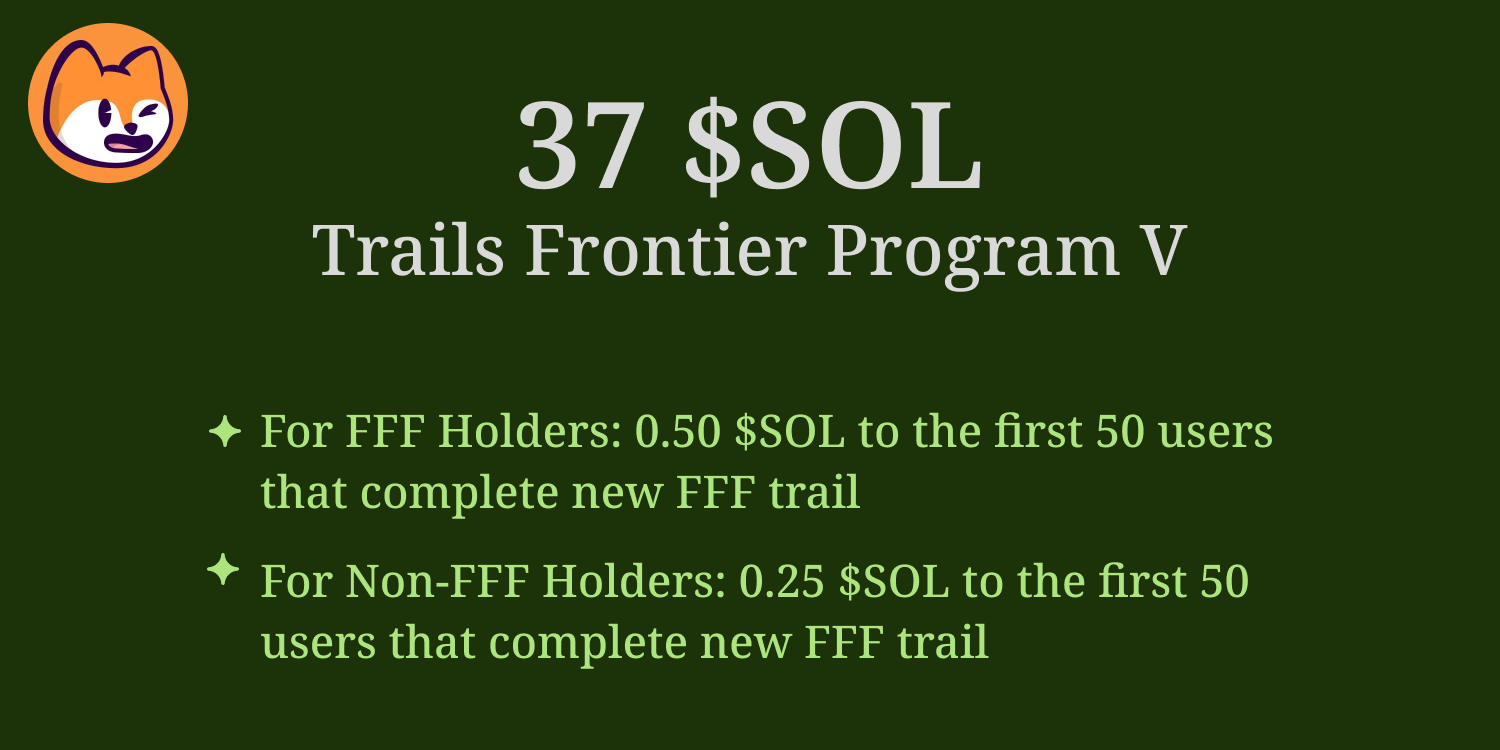
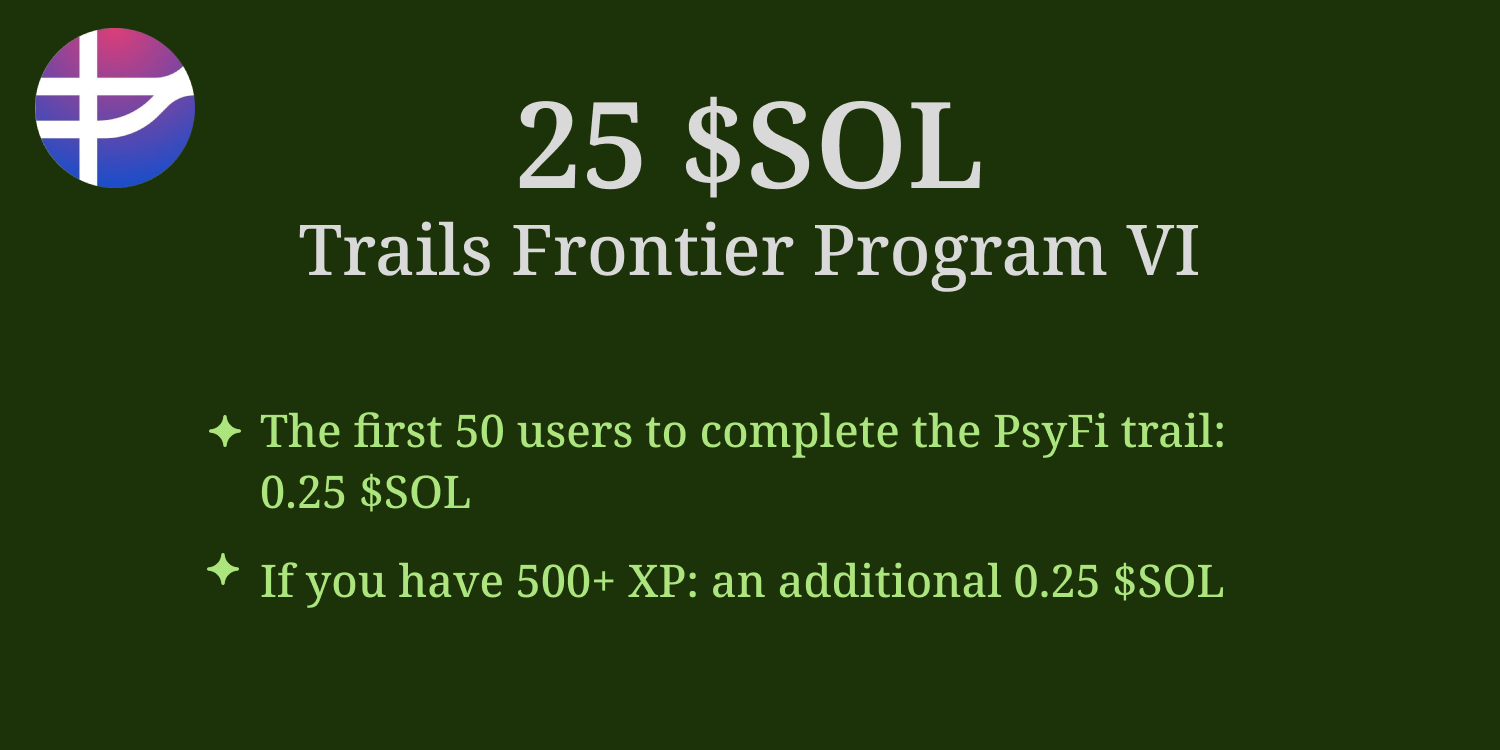
“updates”

diff --git a/src/components/FrontierPage.tsx b/src/components/FrontierPage.tsx
@@ -20,18 +20,17 @@ const FrontierPage = (props: any) => {
             <span>⛏</span>The Frontier Program is designed to reward early Trails adopters
             </div>
             <div>
-                <span>🗻</span>The first 50 users to complete the new Famous Fox Federation Trail earn 0.25 $SOL each
+                <span>🗻</span>The first 50 users to complete the new PsyFi Trail earn a reward depending on your XP
             </div>
             <div>
-                <span>🟠</span>In addition, the first 50 FFF holders to complete the new Famous Fox Federation Trail earn 0.50 $SOL each
+                <span>🟠</span>If you have 500+ XP, you will get 0.5 $SOL, if you have under 500 XP, you will get 0.25 $SOL
             </div>
             <div>
-                <span>🐦</span>You must be following <a target={'_blank'} href='https://twitter.com/TrailsProtocol'>@TrailsProtocol</a> and <a target={'_blank'} href='https://twitter.com/FamousFoxFed'>@FamousFoxFed</a> to earn the prize
+                <span>🐦</span>You must be following <a target={'_blank'} href='https://twitter.com/TrailsProtocol'>@TrailsProtocol</a> and <a target={'_blank'} href='https://twitter.com/PsyOptions'>@PsyOptions</a> to earn the prize
             </div>
             <div>
-                <span>💰</span>DM us at<a target={'_blank'} href='https://twitter.com/TrailsProtocol'>@TrailsProtocol</a> with your address and if you are a FFF holder to receive your prize
+                <span>💰</span>DM us at<a target={'_blank'} href='https://twitter.com/TrailsProtocol'>@TrailsProtocol</a> with your address and if you are have 500+ XP to receive your prize
             </div>
-            {/* </ul> */}
             </div>
         </div>
 	);

diff --git a/src/App.tsx b/src/App.tsx
@@ -135,7 +135,7 @@ function App() {
 			url: BACKEND_URL+'/api/trails/trails',
 		});
 		let trails: Trail[] = response.data;
-		// trails = trails.filter(x => x.hidden == false);
+		trails = trails.filter(x => x.hidden == false);
 		dispatch(actions.setTrails(trails));
 	}
 	const loadTrailheads = async () => {
@@ -146,7 +146,7 @@ function App() {
 		let trailheads: Trailhead[] = response.data;
 		trailheads = trailheads.sort((a, b) => b.id - a.id);
 		trailheads = trailheads.filter(x => x.id != 16);
-		// trailheads = trailheads.filter(x => x.hidden == false);
+		trailheads = trailheads.filter(x => x.hidden == false);
 		dispatch(actions.setTrailheads(trailheads));
 	}
 	const loadHikes = async (address: string) => {
